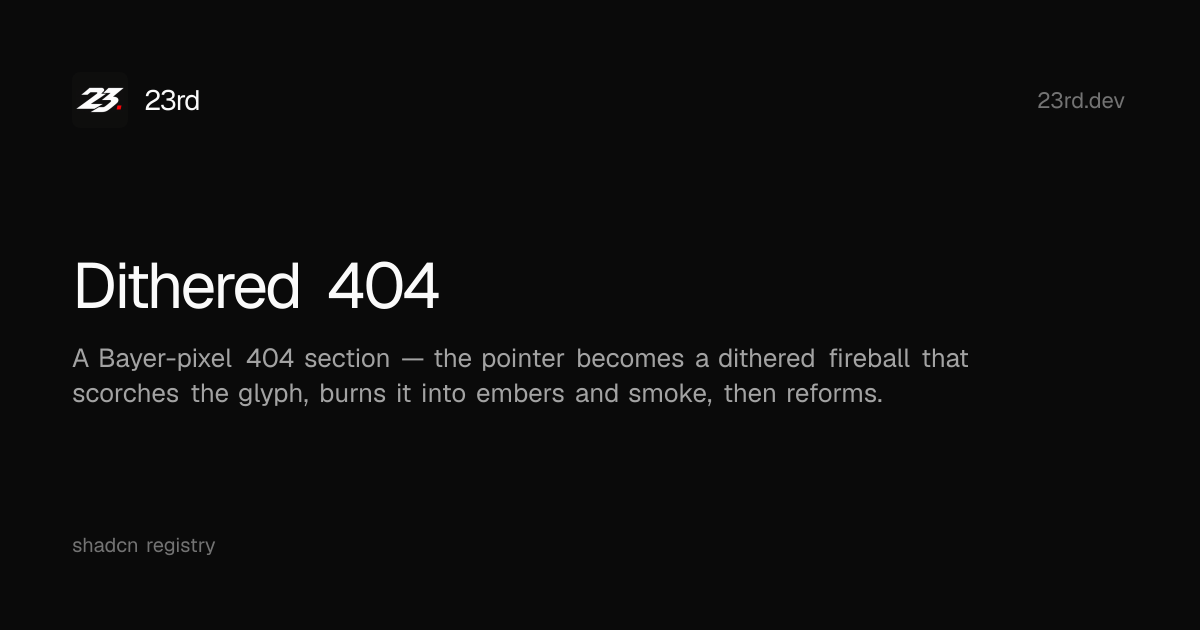
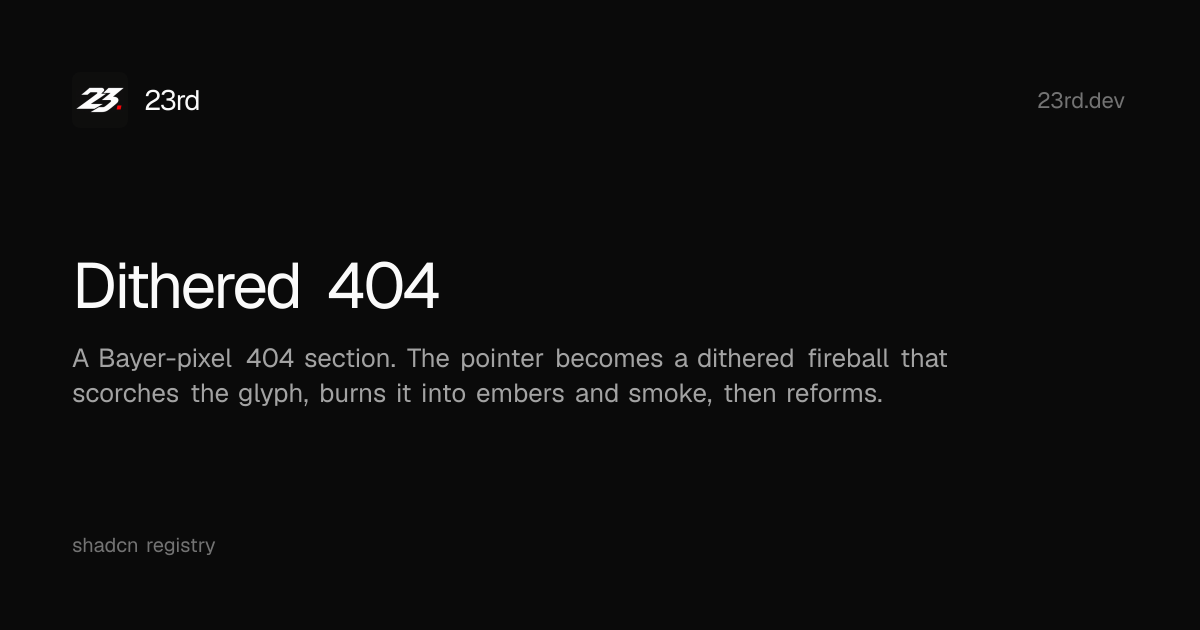
Remove the em dashes from the docs and site copy.
Prose, frontmatter descriptions, demo text, the site title, and the app
name use colons, commas, and semicolons instead. The OG cards for the
pages whose descriptions changed are regenerated.

Changed region(s): [[0.3392, 0.5429, 0.8017, 0.6032]]

diff --git a/registry/folio/folio-demo.tsx b/registry/folio/folio-demo.tsx
@@ -36,7 +36,7 @@ function FolioPage() {
           A long sheet, on purpose
         </h4>
         <p className="mt-4 text-sm leading-relaxed text-foreground/70">
-          Folio is not a card trick. It is the whole page as a plane — the
+          Folio is not a card trick. It is the whole page as a plane: the
           same surface you would set type on, tilted by the speed of your
           hand. The copy below is here so the lean has miles of paper to
           work against.
@@ -85,7 +85,7 @@ function FolioPage() {
           <h4 className="text-sm font-medium tracking-tight">Up</h4>
           <p className="mt-3 text-sm leading-relaxed text-foreground/65">
             Reverse the stroke. The lean inverts. Same spring home when
-            you let go — the page does not care which way you came from.
+            you let go. The page does not care which way you came from.
           </p>
         </div>
       </section>
@@ -142,7 +142,7 @@ function FolioPage() {
         <h4 className="text-sm font-medium tracking-tight">Still going</h4>
         <p className="mt-4 text-sm leading-relaxed text-foreground/65">
           Another screen of travel. The lean should not get tired. If it
-          does, the mapping is wrong — we keyed it to speed so the bottom
+          does, the mapping is wrong; we keyed it to speed so the bottom
           of the essay can still surprise you.
         </p>
         <p className="mt-4 text-sm leading-relaxed text-foreground/55">
@@ -160,7 +160,7 @@ function FolioPage() {
           floor. Then it lets go, and the sheet is just a sheet again.
         </p>
         <p className="mt-4 text-sm leading-relaxed text-foreground/60">
-          Scroll back up from here and the other tilt arrives — hinge
+          Scroll back up from here and the other tilt arrives: hinge
           flipped, blur on the foot of the page, same spring when you
           stop.
         </p>

diff --git a/lib/seo.ts b/lib/seo.ts
@@ -5,9 +5,9 @@ import { getGithubRepoUrl } from "@/lib/github"
 export const SITE_URL = "https://23rd.dev"
 export const SITE_NAME = "23rd"
 export const SITE_TAGLINE = "Opinionated UI components for shippers"
-export const SITE_TITLE = `${SITE_NAME} — ${SITE_TAGLINE}`
+export const SITE_TITLE = `${SITE_NAME}: ${SITE_TAGLINE}`
 export const SITE_DESCRIPTION =
-  "A shadcn/ui registry of opinionated React and Svelte components — shaders, backgrounds, footers, and interactive UI. Install with the CLI, own the source, and ship."
+  "A shadcn/ui registry of opinionated React and Svelte components: shaders, backgrounds, footers, and interactive UI. Install with the CLI, own the source, and ship."
 
 export const SITE_KEYWORDS = [
   "23rd",

diff --git a/registry/stretchy-footer/stretchy-footer-demo.tsx b/registry/stretchy-footer/stretchy-footer-demo.tsx
@@ -138,7 +138,7 @@ export function StretchyFooterDemo() {
               className="flex min-h-[145%] flex-col items-center justify-center gap-4 px-6 py-16 text-center"
             >
               <p className="max-w-sm text-sm text-muted-foreground">
-                Scroll past the end of this card — or play the rubber-band from
+                Scroll past the end of this card, or play the rubber-band from
                 here.
               </p>
               <Button

diff --git a/registry/dithered-404/dithered-404-demo.tsx b/registry/dithered-404/dithered-404-demo.tsx
@@ -96,7 +96,7 @@ export function Dithered404Demo() {
         />
         <ControlSwitch
           label="Dither"
-          description="Ordered Bayer pixels — off is a soft realistic fire"
+          description="Ordered Bayer pixels; off is a soft realistic fire"
           checked={props.dither}
           onChange={(v) => updateProp("dither", v)}
         />

diff --git a/app/manifest.ts b/app/manifest.ts
@@ -4,7 +4,7 @@ import { SITE_DESCRIPTION, SITE_NAME, SITE_TAGLINE } from "@/lib/seo"
 
 export default function manifest(): MetadataRoute.Manifest {
   return {
-    name: `${SITE_NAME} — ${SITE_TAGLINE}`,
+    name: `${SITE_NAME}: ${SITE_TAGLINE}`,
     short_name: SITE_NAME,
     description: SITE_DESCRIPTION,
     start_url: "/docs/getting-started",

diff --git a/registry/radiant-lines/radiant-lines-demo.tsx b/registry/radiant-lines/radiant-lines-demo.tsx
@@ -29,7 +29,7 @@ const PAGES = [
   {
     eyebrow: "Scroll to warp",
     title: "Hyperspace starfield",
-    body: "Colored streaks shoot from the center. Scroll to the next page — warp eases with you.",
+    body: "Colored streaks shoot from the center. Scroll to the next page and the warp eases with you.",
   },
   {
     eyebrow: "Page two",
